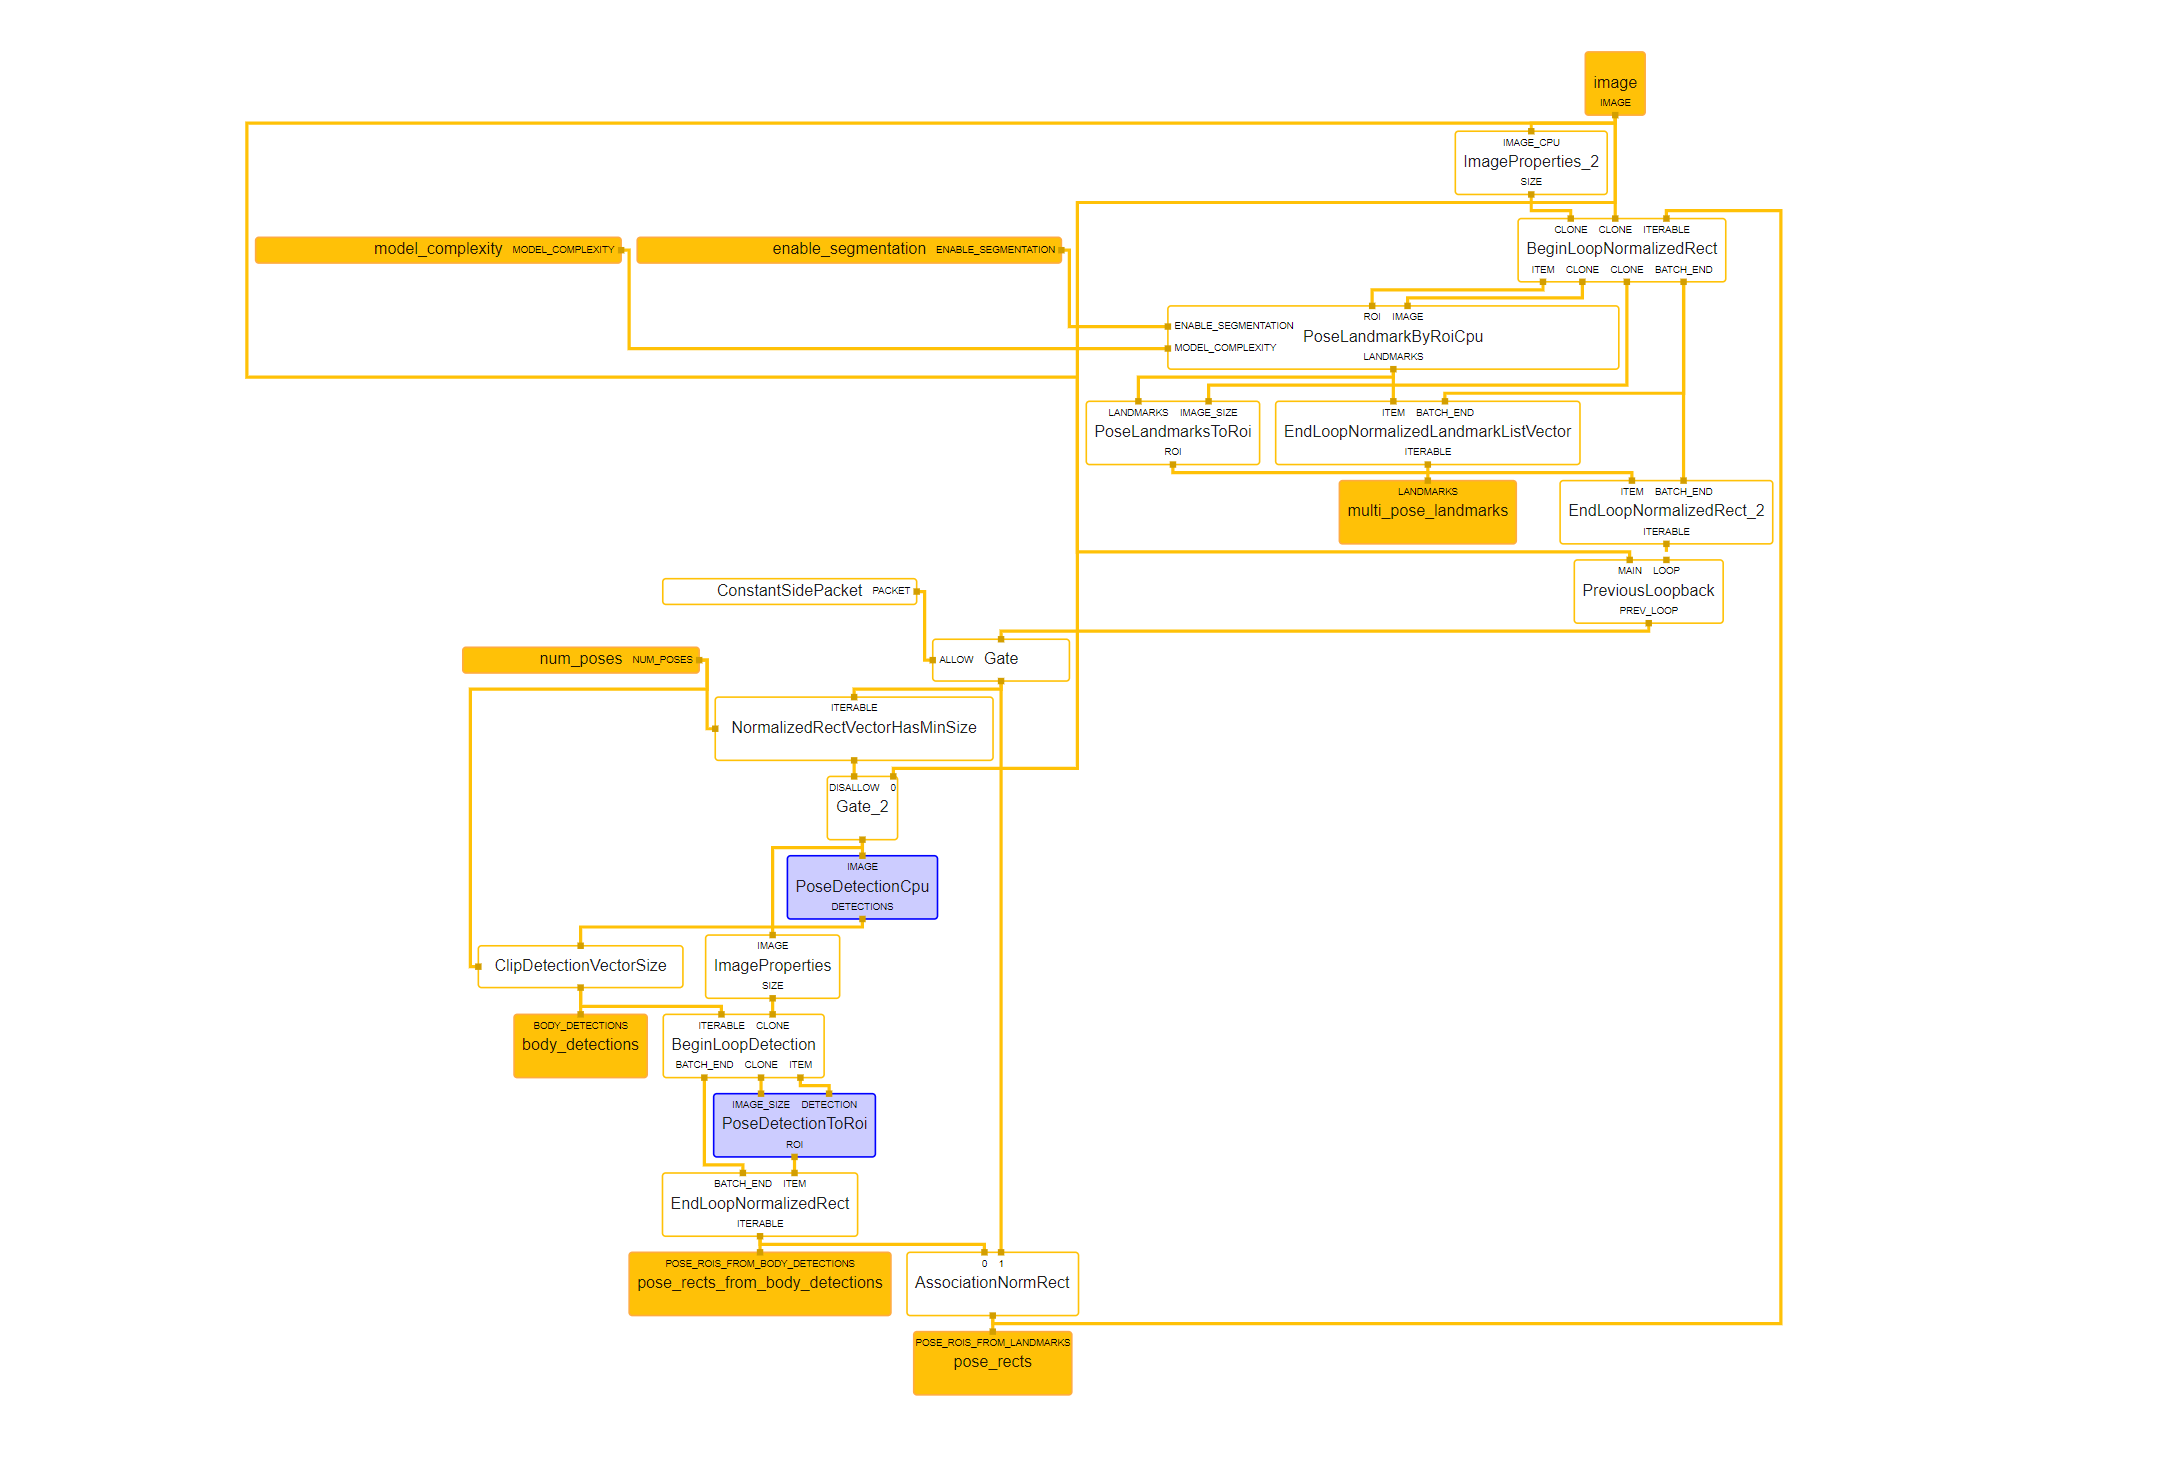
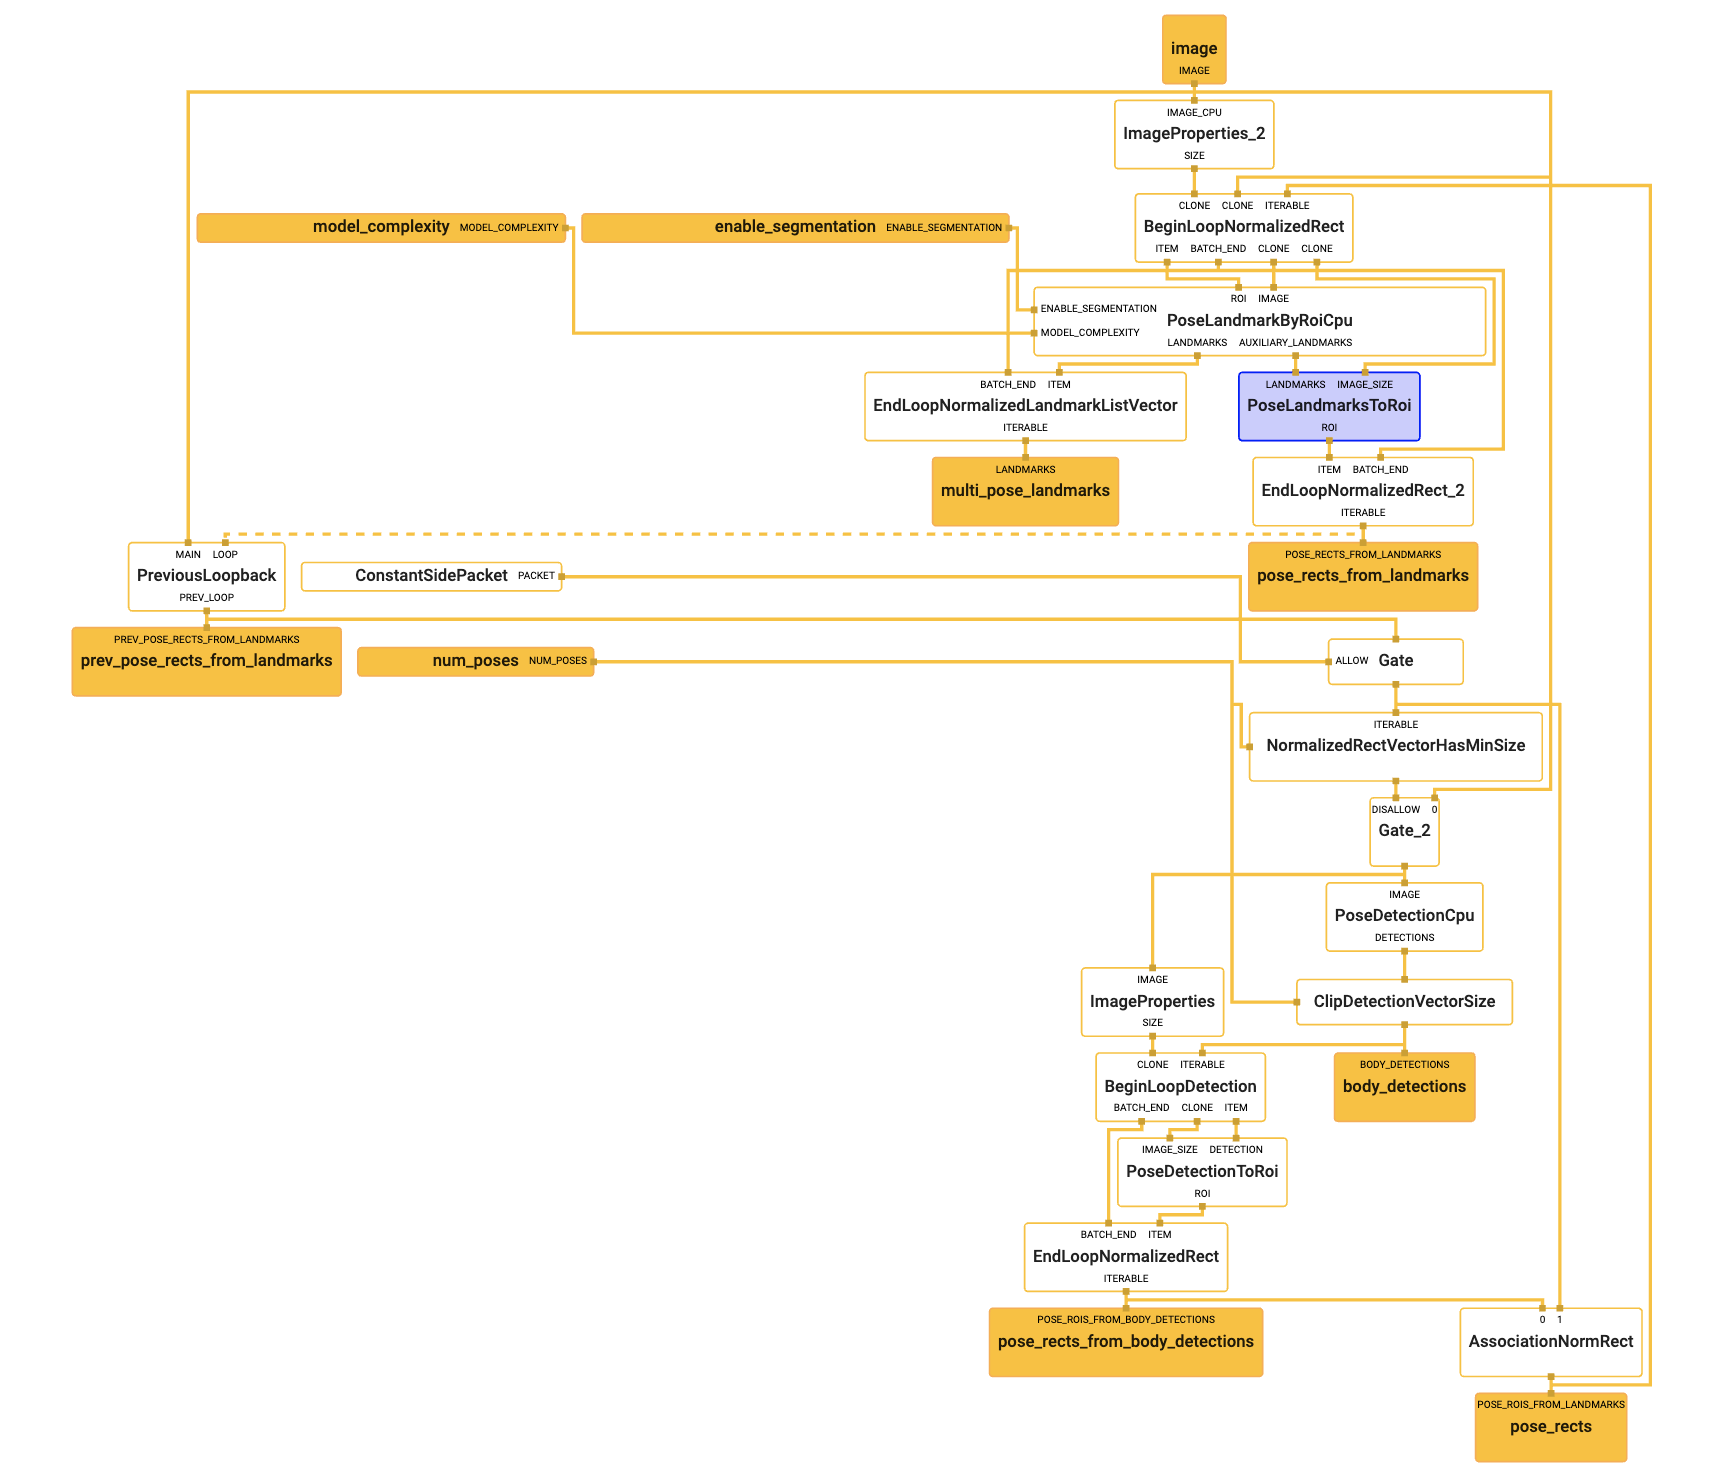
implemented fps and latency tracking

Changed region(s): [[0.0311, 0.0, 0.9654, 0.949], [0.8097, 0.8571, 0.9654, 1.0]]

diff --git a/pose.py b/pose.py
@@ -5,10 +5,12 @@ from mediapipe.python.solutions.drawing_utils import DrawingSpec
 
 import mediapipe as mp
 from mpx import multi_pose
-from utils import get_video_input, draw_pose_rect
+from utils import get_video_input, draw_pose_rect, TimeInstrument, draw_opac_rect
 
 debug_on = False
-colors = [(255, 0, 0,), [0, 255, 0], [0, 0, 255]]
+colors = [(255, 0, 0), (0, 255, 0), (0, 0, 255)]
+
+time_instrument = TimeInstrument()
 
 
 def sec_len(it):
@@ -16,6 +18,17 @@ def sec_len(it):
         return len(it)
     else:
         return "-"
+
+
+def draw_infos(image, pose_count):
+    ih, iw = image.shape[:2]
+    rw, rh = 290, 20
+
+    # show infos
+    draw_opac_rect(image, 0, ih - rh, rw, rh)
+    cv2.putText(image, "FPS: %.0f Latency: %.2fms Poses: %s"
+                % (time_instrument.fps, time_instrument.latency, pose_count),
+                (7, ih - 6), cv2.FONT_HERSHEY_SIMPLEX, 0.5, (55, 55, 55), 1, cv2.LINE_AA)
 
 
 def detect_and_annotate(pose, mp_drawing, connections, image, flip=False):
@@ -29,7 +42,9 @@ def detect_and_annotate(pose, mp_drawing, connections, image, flip=False):
     # pass by reference.
     image.flags.writeable = False
     try:
+        time_instrument.start()
         results = pose.process(image)
+        time_instrument.stop()
     except RuntimeError as ex:
         print(f"Error: ${ex}")
         exit(1)
@@ -45,17 +60,32 @@ def detect_and_annotate(pose, mp_drawing, connections, image, flip=False):
             mp_drawing.draw_landmarks(image, landmarks, connections,
                                       connection_drawing_spec=DrawingSpec(color=color, thickness=2))
 
+    draw_infos(image, sec_len(results.multi_pose_landmarks))
+
     if debug_on:
         # annotate pose_rects_from_body_detections / pose_rects
-        if results.pose_rects_from_body_detections:
-            for i, rect in enumerate(results.pose_rects_from_body_detections):
-                color = colors[i]
-                draw_pose_rect(image, rect, color=color)
-                cv2.circle(image, (round(rect.x_center * image.shape[1]), round(rect.y_center * image.shape[0])), 20, color, 1)
+        if results.pose_rects:
+            for i, rect in enumerate(results.pose_rects):
+                draw_pose_rect(image, rect, color=(255, 0, 0))
+                cv2.circle(image, (round(rect.x_center * image.shape[1]),
+                                   round(rect.y_center * image.shape[0])), 20, (255, 0, 0), 1)
 
-        print(f"pose_rects_from_body_detections: {sec_len(results.pose_rects_from_body_detections)}\t"
+            if results.pose_rects_from_landmarks:
+                for i, rect in enumerate(results.pose_rects_from_landmarks):
+                    draw_pose_rect(image, rect, color=(0, 255, 0))
+                    cv2.circle(image, (round(rect.x_center * image.shape[1]),
+                                       round(rect.y_center * image.shape[0])), 20, (255, 0, 0), 1)
+
+        body_detections = results.body_detections
+        if body_detections:
+            pass
+
+        print(f"prev_pose_rects_from_landmarks: {sec_len(results.prev_pose_rects_from_landmarks)}\t"
+              f"body_detections: {sec_len(results.body_detections)}\t"
+              f"pose_rects_from_body_detections: {sec_len(results.pose_rects_from_body_detections)}\t"
               f"pose_rects: {sec_len(results.pose_rects)}\t"
-              f"multi_pose_landmarks: {sec_len(results.multi_pose_landmarks)}\t")
+              f"multi_pose_landmarks: {sec_len(results.multi_pose_landmarks)}\t"
+              f"pose_rects_from_landmarks: {sec_len(results.pose_rects_from_landmarks)}")
 
     return image
 
@@ -74,7 +104,7 @@ def main():
                         help="Minimum confidence value ([0.0, 1.0]) for the detection to be considered successful.")
     parser.add_argument("-mtc", "--min-tracking-confidence", type=float, default=0.5,
                         help="Minimum confidence value ([0.0, 1.0]) to be considered tracked successfully.")
-    parser.add_argument("-mst", "--min-similarity-threshold", type=float, default=0.9,
+    parser.add_argument("-mst", "--min-similarity-threshold", type=float, default=0.5,
                         help="Min IoU similarity to be the same pose rect.")
     parser.add_argument("--max-num-poses", type=int, default=2, help="Max poses to be detected.")
 
@@ -83,6 +113,16 @@ def main():
     parser.add_argument("--wait", action="store_true", help="Wait for use input to capture next frame.")
     parser.add_argument("--debug", action="store_true", help="Show debug output.")
     args = parser.parse_args()
+
+    # parse arguments
+    flip_input = args.input.isnumeric()
+
+    wait_time = 1
+    if args.wait:
+        wait_time = None
+
+    global debug_on
+    debug_on = args.debug
 
     # setup camera loop
     mp_drawing = mp.solutions.drawing_utils
@@ -111,14 +151,6 @@ def main():
         exit(0)
 
     cap = cv2.VideoCapture(get_video_input(args.input))
-    flip_input = args.input.isnumeric()
-
-    wait_time = 5
-    if args.wait:
-        wait_time = 0
-
-    global debug_on
-    debug_on = args.debug
 
     while cap.isOpened():
         success, image = cap.read()

diff --git a/mpx/multi_pose.py b/mpx/multi_pose.py
@@ -36,6 +36,16 @@ from mediapipe.python.solutions.pose_connections import POSE_CONNECTIONS
 # pylint: enable=unused-import
 from mpx.solution_base import SolutionBase
 
+
+def _download_oss_pose_landmark_model(model_complexity):
+    if model_complexity == 0:
+        download_utils.download_oss_model(
+            'mediapipe/modules/pose_landmark/pose_landmark_lite.tflite')
+    elif model_complexity == 2:
+        download_utils.download_oss_model(
+            'mediapipe/modules/pose_landmark/pose_landmark_heavy.tflite')
+
+
 BINARYPB_FILE_PATH = 'mediapipe/modules/pose_landmark/multi_pose_landmark_cpu.binarypb'
 
 
@@ -51,6 +61,7 @@ class MultiPose(SolutionBase):
                  min_tracking_confidence=0.5,
                  max_num_poses=2,
                  min_similarity_threshold=0.5):
+        _download_oss_pose_landmark_model(model_complexity)
 
         super().__init__(
             binary_graph_path=BINARYPB_FILE_PATH,
@@ -72,6 +83,11 @@ class MultiPose(SolutionBase):
                     min_tracking_confidence,
                 'AssociationNormRectCalculator.min_similarity_threshold':
                     float(min_similarity_threshold),
+                # do not scale it up to high
+                'poselandmarkstoroi__RectTransformationCalculator.scale_x': 1.1,
+                'poselandmarkstoroi__RectTransformationCalculator.scale_y': 1.1,
+                # 'poselandmarkstoroi__RectTransformationCalculator.shift_y': 8,
+                # 'poselandmarkstoroi__RectTransformationCalculator.square_long': bool(False)
             })
 
         def process(self, image: np.ndarray) -> NamedTuple:

diff --git a/utils.py b/utils.py
@@ -1,7 +1,15 @@
+import time
 from argparse import ArgumentParser
 
 import cv2
 import numpy as np
+
+
+def draw_opac_rect(image, x, y, w, h):
+    sub_img = image[y:y + h, x:x + w]
+    white_rect = np.ones(sub_img.shape, dtype=np.uint8) * 255
+    res = cv2.addWeighted(sub_img, 0.5, white_rect, 0.5, 1.0)
+    image[y:y + h, x:x + w] = res
 
 
 def draw_pose_rect(image, rect, color=(255, 0, 255), thickness=2):
@@ -16,6 +24,7 @@ def draw_pose_rect(image, rect, color=(255, 0, 255), thickness=2):
     box = np.int0(box)
     cv2.drawContours(image, [box], 0, color, thickness)
 
+
 def get_video_input(input_value):
     if input_value.isnumeric():
         print("using camera %s as input device..." % input_value)
@@ -24,3 +33,27 @@ def get_video_input(input_value):
     print("using video '%s' as input..." % input_value)
     return input_value
 
+
+class TimeInstrument:
+    def __init__(self):
+        self._start_time = 0
+        self._end_time = 0
+
+        self.fps = 0
+        self.latency = 0
+
+    def start(self):
+        self._start_time = time.time()
+
+    def stop(self):
+        prev = self._end_time
+        self._end_time = time.time()
+
+        self.fps = 1.0 / (self._end_time - prev)
+        self.latency = self._end_time - self._start_time
+
+    def reset(self):
+        self._start_time = 0
+        self._end_time = 0
+        self.fps = 0
+        self.latency = 0

diff --git a/mpx/solution_base.py b/mpx/solution_base.py
@@ -43,6 +43,7 @@ from mediapipe.calculators.util import landmarks_smoothing_calculator_pb2
 from mediapipe.calculators.util import logic_calculator_pb2
 from mediapipe.calculators.util import thresholding_calculator_pb2
 from mediapipe.calculators.util import association_calculator_pb2
+from mediapipe.calculators.util import rect_transformation_calculator_pb2
 from mediapipe.framework.formats import classification_pb2
 from mediapipe.framework.formats import landmark_pb2
 from mediapipe.framework.formats import rect_pb2
@@ -78,7 +79,9 @@ CALCULATOR_TO_OPTIONS = {
         lift_2d_frame_annotation_to_3d_calculator_pb2
             .Lift2DFrameAnnotationTo3DCalculatorOptions,
     'AssociationNormRectCalculator':
-        association_calculator_pb2.AssociationCalculatorOptions
+        association_calculator_pb2.AssociationCalculatorOptions,
+    'RectTransformationCalculator':
+        rect_transformation_calculator_pb2.RectTransformationCalculatorOptions
 }
 
 

diff --git a/README.md b/README.md
@@ -6,7 +6,7 @@
 
 ### Install & Run
 
-Currently, this is only tested on Windows and MacOS. It's recommended to use Python3 (`>3.7`) and a virtual environment.
+Currently, this is only tested on Windows and macOS. It's recommended to use Python3 (`>=3.7`) and a virtual environment.
 
 ```bash
 python install -r requirements.txt
@@ -16,7 +16,7 @@ To run an example use the basic python command to start up the script.
 
 ```bash
 # start pose detection with webcam
-python pose.py --static-image-mode
+python pose.py
 
 # pose detection with single image
 python pose.py --image images/pexels-allan-mas-5368956.jpg
@@ -28,39 +28,10 @@ There is also a pre-compiled pose detection graph which includes the detection t
 python detection.py
 ```
 
-### How to build pbbinary in WSL
-If you want to build the graphs yourself, here are some instructions on how to do it on Windows with WSL (Ubuntu 20.04).
+### Build
 
-```
-# install bazel
-sudo apt update && sudo apt install bazel-3.7.2
-sudo ln -s /usr/bin/bazel-3.7.2 /usr/bin/bazel
-```
+To build the graphs, download the [mediapipe](https://github.com/google/mediapipe) repository (`>=0.8.7`) and set the path to this repository as well as to the mediapipe repo in the [build_custom_graphs.sh](build_custom_graphs.sh). After that run the `build_custom_graphs.sh` script and let it compile the graphs with bazel. If you need help to setup your development environment, have a look at [Building MediaPipe Python Package](https://google.github.io/mediapipe/getting_started/python.html).
 
-```
-# install python with pip and numpy
-sudo apt install python3 python3-pip
-pip install numpy
-```
-
-```
-# install gl mesa packages
-sudo apt-get install libegl1-mesa-dev
-```
-
-After these steps, download the [mediapipe](https://github.com/google/mediapipe) repository and copy the graph files into the corresponding folders. Navigation with Ubuntu to the root folder of the repository and run the following commands. The output should be found in `mediapipe/bazel-bin/mediapipe/modules/`.
-
-#### Detection
-
-```
-bazel build -c opt --copt -DMESA_EGL_NO_X11_HEADERS --copt -DEGL_NO_X11 mediapipe/modules/pose_detection:pose_detection_cpu
-```
-
-#### Multi Pose Landmark
-
-```
-bazel build -c opt --copt -DMESA_EGL_NO_X11_HEADERS --copt -DEGL_NO_X11 mediapipe/modules/pose_landmark:multi_pose_landmark_cpu
-```
 
 ### Problems and Challenges
 
@@ -68,32 +39,8 @@ bazel build -c opt --copt -DMESA_EGL_NO_X11_HEADERS --copt -DEGL_NO_X11 mediapip
 The [solution_base](https://github.com/cansik/multi-pose-mediapipe/blob/main/mpx/solution_base.py#L393-L401) file has been copied into `mpx/solution_base.py` to adapt the path, where the resources are loaded and set the `_input_stream_type_info` manually due to a not registered type error which could not be resolved for now.
 
 #### Landmark Smoothing
-At the moment the landmark filter is not implemented into the graph.
+At the moment the landmark filter is not implemented into the graph because of difficulties to map filter to pose.
 
-#### Inverse Mat Error
-Only if `static-image-mode` is not enabled.
-If head is not detected properly, graph breaks with the following exception:
-
-```python
-INFO: Created TensorFlow Lite XNNPACK delegate for CPU.
-WARNING: Logging before InitGoogleLogging() is written to STDERR
-E20210830 18:36:36.496217 24428 calculator_graph.cc:804] INTERNAL: CalculatorGraph::Run() failed in Run: 
-Calculator::Process() for node "poselandmarkbyroicpu__poselandmarksandsegmentationinverseprojection__InverseMatrixCalculator" failed: ; Inverse matrix cannot be calculated.tors/util/inverse_matrix_calculator.cc:38) 
-Traceback (most recent call last):
-  File "C:\Users\user\multi-pose-mediapipe\pose.py", line 63, in <module>
-    main()
-  File "C:\Users\user\multi-pose-mediapipe\pose.py", line 47, in main
-    results = pose.process(image)
-  File "C:\Users\user\multi-pose-mediapipe\mpx\solution_base.py", line 334, in process
-    self._graph.wait_until_idle()
-RuntimeError: CalculatorGraph::Run() failed in Run: 
-Calculator::Process() for node "poselandmarkbyroicpu__poselandmarksandsegmentationinverseprojection__InverseMatrixCalculator" failed: ; Inverse matrix cannot be calculated.tors/util/inverse_matrix_calculator.cc:38) 
-[ WARN:0] global C:\Users\runneradmin\AppData\Local\Temp\pip-req-build-sn_xpupm\opencv\modules\videoio\src\cap_msmf.cpp (438) `anonymous-namespace'::SourceReaderCB::~SourceReaderCB terminating async callback
-
-Process finished with exit code 1
-```
-
-This could be due to a tracking error. The graph could have an error the the right body is not detected and marked again (tracking).
 ### Graphs
 
 #### Pose Detection with ROI CPU
